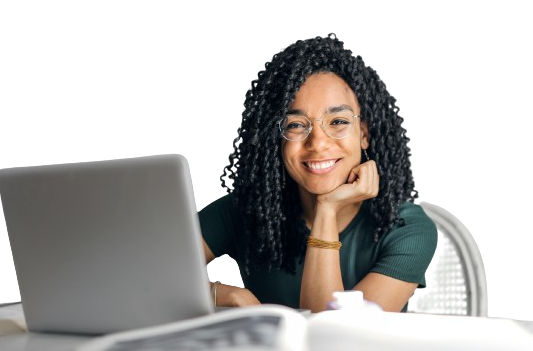
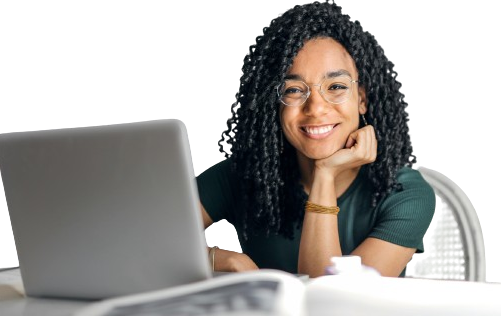
hh

diff --git a/components/WhyworkWithous.jsx b/components/WhyworkWithous.jsx
@@ -35,10 +35,10 @@ function BookNextTripSection() {
   ];
   return (
     <section className="bg-sky-100 ">
-      <p className="md:text-[3.125rem] text-[2.125rem] text-slate-950 font-[700] text-center ">
+      <p className=" md:text-[2.725rem] text-[1.525rem] leading-9 md:leading-normal px-2 py-3  text-slate-900 font-[700] text-center md:py-8 md:px-16 ">
           Operation Simple and Seamless
         </p>
-        <p className="text-center  md:block text-slate-700 text-[1.125rem] md:font-[600] p-2 md:px-16">
+        <p className="text-center  md:block text-slate-700 text-[1.125rem] md:font-[600] md:px-16">
           With a focus to leaving you with no stress and minimal involvement in the work, we hve curated a process that's easy to under stand and follow for you and us
         </p> 
       <div className="flex justify-between flex-col md:flex-row items-center p-4 md:p-8  md:pl- md:pr">

diff --git a/components/W2.jsx b/components/W2.jsx
@@ -17,13 +17,13 @@ const W2 = () => {
           </div>
         </div>
         <div>
-          <div className="md:absolute   md:top-[-5%] md:right-[60%] z-1 mt-2 md flex items-center justify-center ">
+          <div className="md:absolute   md:top-[-1%] md:right-[60%] z-1 mt-2 md flex items-center justify-center ">
             {/* <div className="border-l-[10px] border-red-300  rounded0full"> */}
             <Image
               src="/images/h2.png"
               className=" "
-              width={500}
-              height={500}
+              width={450}
+              height={450}
               alt="hero image"
             />
           </div>
